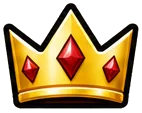
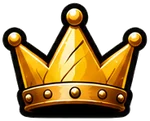
Habillage Bois (planche de Loubi) à la place de Casino, marques dessinées incluses (lf-341)
Claude-Session: https://claude.ai/code/session_01Agff8va3qxXu2Vw43sb54j

diff --git a/index.html b/index.html
@@ -3560,7 +3560,7 @@ html body #hist #hBody .h2big em{grid-column:1/-1;text-align:center;font:400 12p
 html body #hist #hBody .h2last{grid-column:1/-1;display:flex;gap:6px;justify-content:center;align-items:center}
 html body #hist #hBody .h2last i{width:14px;height:14px;border-radius:50%;background:var(--pc)}
 html body #hist #hBody .h2last small{font:400 11px "Lbl",sans-serif;color:var(--mute);margin-left:6px}
-/* ===== habillage « Casino » (Cricket 1 contre 1) : images dessinées par Loubi, découpées depuis sa planche ; « Base » = rendu normal ===== */
+/* ===== habillage « Bois » (Cricket 1 contre 1 ; clé interne « casino ») : images dessinées par Loubi, découpées depuis sa planche ; « Base » = rendu normal ===== */
 html body.skin-casino #game#game#game#game.p2 .sc.act{background:transparent!important;box-shadow:none!important}
 html body.skin-casino #game#game#game#game.p2 .sc.act::after{opacity:0!important}
 html body.skin-casino #game#game#game#game.p2 .sc.act::before{content:'';position:absolute;inset:-5px;background:url(skins/casino/carte.webp) 0 0/100% 100% no-repeat;z-index:-1;pointer-events:none}
@@ -3574,7 +3574,7 @@ html body.skin-casino #game#game#game#game.p2 .sc:not(.act) .pill:not(.undo){bac
 html body.skin-casino #game#game#game#game.p2 .sc:not(.act) .pill.d{background-image:url(skins/casino/pa_d.webp)!important}
 html body.skin-casino #game#game#game#game.p2 .sc:not(.act) .pill.t{background-image:url(skins/casino/pa_t.webp)!important}
 html body.skin-casino #game#game#game#game.p2 .sc:not(.act) .pill.e,html body.skin-casino #game#game#game#game.p2 .sc:not(.act) .pill.z{background-image:url(skins/casino/pa_z.webp)!important}
-html body.skin-casino #game#game#game#game.p2 .rtrackb{border-color:transparent!important;background:url(skins/casino/rail.webp) 0 0/100% 100% no-repeat!important;z-index:1!important}
+html body.skin-casino #game#game#game#game.p2 .rtrackb{border-color:transparent!important;background:url(skins/casino/rail.webp) 0 0/100% 100% no-repeat!important;z-index:0!important}
 html body.skin-casino #game#game#game#game.p2 #grid .num{background:transparent!important;box-shadow:none!important}
 html body.skin-casino #game#game#game#game.p2 #grid .num::before{content:'';position:absolute;inset:0;background:url(skins/casino/num.webp) 0 0/100% 100% no-repeat;z-index:-1;pointer-events:none}
 html body.skin-casino #game#game#game#game.p2 #grid .num.dead::before{background-image:url(skins/casino/num_mort.webp)}
@@ -3583,8 +3583,11 @@ html body.skin-casino #game#game#game#game.p2 .fthumb{background:transparent!imp
 html body.skin-casino #game#game#game#game.p2 .fthumb::before{content:'';position:absolute;inset:-4.8px;background:url(skins/casino/curseur.webp) 0 0/100% 100% no-repeat;pointer-events:none}
 html body.skin-casino #game#game#game#game.p2 .mw{position:relative;isolation:isolate}
 html body.skin-casino #game#game#game#game.p2 .mw .disc{opacity:0!important}
-html body.skin-casino #game#game#game#game.p2 .mw.k3::before{content:'';position:absolute;left:23%;top:23%;width:54%;height:54%;background:url(skins/casino/disque.webp) center/contain no-repeat;z-index:-1;animation:skpop .28s cubic-bezier(.3,1.6,.5,1)}
+html body.skin-casino #game#game#game#game.p2 .mw.k3::before{content:'';position:absolute;left:21%;top:21%;width:58%;height:58%;background:url(skins/casino/disque.webp) center/contain no-repeat;z-index:-1;animation:skpop .28s cubic-bezier(.3,1.6,.5,1)}
 @keyframes skpop{from{transform:scale(.2)}}
+html body.skin-casino #game#game#game#game.p2 .mw svg path{opacity:0!important}
+html body.skin-casino #game#game#game#game.p2 .mw.k1::after,html body.skin-casino #game#game#game#game.p2 .mw.k2::after,html body.skin-casino #game#game#game#game.p2 .mw.k3::after{content:'';position:absolute;left:20%;top:20%;width:60%;height:60%;background:url(skins/casino/trait1.webp) center/contain no-repeat;pointer-events:none;animation:skpop .22s ease-out}
+html body.skin-casino #game#game#game#game.p2 .mw.k2::after,html body.skin-casino #game#game#game#game.p2 .mw.k3::after{background:url(skins/casino/trait1.webp) center/contain no-repeat,url(skins/casino/trait2.webp) center/contain no-repeat}
 html body.skin-casino #game#game#game#game.p2 svg.hat path{opacity:0!important}
 html body.skin-casino #game#game#game#game.p2 svg.hat{background:url(skins/casino/couronne.webp) center/contain no-repeat;overflow:visible}
 html body.skin-casino #game#game#game#game.p2 #fMenu svg *,html body.skin-casino #game#game#game#game.p2 #fUndo svg *{opacity:0!important}
@@ -7095,13 +7098,13 @@ $('grid').addEventListener('click',e=>{if(!BARC)return;e.stopImmediatePropagatio
 /* ===== thème : 3 réglages de couleur (fond, contours et textes, bulles) ===== */
 /* thème unique (Bulle d'origine) : on efface les anciens réglages de couleurs et de style */
 if(S.th||S.style||S.pfT||S.pfN||S.pst){['th','style','pfT','pfN','pst'].forEach(k=>delete S[k]);try{store.set(K_S,S)}catch(e){}}
-const APPV='lf-340';   // à changer avec VERSION dans sw.js
+const APPV='lf-341';   // à changer avec VERSION dans sw.js
 ['--m-bg','--m-card','--m-line','--m-strongtx','--btx','--accent','--acc-rgb','--m-home','--ui-bg','--page','--m-cell','--ink','--m-ink','--m-strong','--mute','--m-sub'].forEach(k=>document.documentElement.style.removeProperty(k));
 try{colApply()}catch(e){}   // couleurs choisies : rétablies à chaque ouverture
 $('skinT').addEventListener('click',e=>{e.stopPropagation();haptic();SFX.ui();
   const old=$('xpick');if(old)old.remove();
   const p=el('div','');p.id='xpick';p.classList.add('skinpick');document.body.append(p);
-  const draw=()=>{p.innerHTML=`<div class="skn"><button class="skgo" data-go="hStats">Statistiques</button><button class="skgo" data-go="hHist">Historique</button><button class="skprof">Joueurs</button></div><div class="skp"><span>Son</span><div class="sksw sksnd3"><button data-s="0" class="${S.sound?'':'on'}">Non</button><button data-s="1" class="${S.sound&&S.voice===false?'on':''}">Effets</button><button data-s="2" class="${S.sound&&S.voice!==false?'on':''}">+ Voix</button></div></div><div class="skp"><span>Habillage</span><div class="sksw sksk"><button data-k="" class="${S.skin==='casino'?'':'on'}">Base</button><button data-k="casino" class="${S.skin==='casino'?'on':''}">Casino</button></div></div><div class="skp"><span>Couleurs des joueurs</span><div class="sksw"><button data-p="1" class="${S.pcolOff?'':'on'}">Oui</button><button data-p="0" class="${S.pcolOff?'on':''}">Non</button></div></div>`+colMenu()+`<button class="skadv">Avancé <i>${SKADV?'▴':'▾'}</i></button>${SKADV?`<div class="skp skjeux"><span>Mise en page des jeux</span></div><div class="skdemo"><button data-d="ck2">Cricket 1v1</button><button data-d="ck3">Cricket 3</button><button data-d="ck4">Cricket 4</button><button data-d="ck5">Cricket 5+</button><button data-d="x2">501 1v1</button><button data-d="xn">501 3+</button><button data-d="kl">Killer 6</button><button data-d="kl7">Killer 7+</button><button data-d="clk">Horloge</button></div><div class="skp skjeux"><span>Affichage des tableaux</span></div><div class="skdemo skdisp"><button data-ds="st">Statistiques</button><button data-ds="hl">Historique</button><button data-ds="hg">Fiche de partie</button></div><button class="skdanger">Effacer des données…</button>`:''}<div class="skv">version ${APPV}</div>`;if(p.style.top)p.style.top=Math.max(12,Math.min(parseFloat(p.style.top),innerHeight-p.offsetHeight-12))+'px'};
+  const draw=()=>{p.innerHTML=`<div class="skn"><button class="skgo" data-go="hStats">Statistiques</button><button class="skgo" data-go="hHist">Historique</button><button class="skprof">Joueurs</button></div><div class="skp"><span>Son</span><div class="sksw sksnd3"><button data-s="0" class="${S.sound?'':'on'}">Non</button><button data-s="1" class="${S.sound&&S.voice===false?'on':''}">Effets</button><button data-s="2" class="${S.sound&&S.voice!==false?'on':''}">+ Voix</button></div></div><div class="skp"><span>Habillage</span><div class="sksw sksk"><button data-k="" class="${S.skin==='casino'?'':'on'}">Base</button><button data-k="casino" class="${S.skin==='casino'?'on':''}">Bois</button></div></div><div class="skp"><span>Couleurs des joueurs</span><div class="sksw"><button data-p="1" class="${S.pcolOff?'':'on'}">Oui</button><button data-p="0" class="${S.pcolOff?'on':''}">Non</button></div></div>`+colMenu()+`<button class="skadv">Avancé <i>${SKADV?'▴':'▾'}</i></button>${SKADV?`<div class="skp skjeux"><span>Mise en page des jeux</span></div><div class="skdemo"><button data-d="ck2">Cricket 1v1</button><button data-d="ck3">Cricket 3</button><button data-d="ck4">Cricket 4</button><button data-d="ck5">Cricket 5+</button><button data-d="x2">501 1v1</button><button data-d="xn">501 3+</button><button data-d="kl">Killer 6</button><button data-d="kl7">Killer 7+</button><button data-d="clk">Horloge</button></div><div class="skp skjeux"><span>Affichage des tableaux</span></div><div class="skdemo skdisp"><button data-ds="st">Statistiques</button><button data-ds="hl">Historique</button><button data-ds="hg">Fiche de partie</button></div><button class="skdanger">Effacer des données…</button>`:''}<div class="skv">version ${APPV}</div>`;if(p.style.top)p.style.top=Math.max(12,Math.min(parseFloat(p.style.top),innerHeight-p.offsetHeight-12))+'px'};
   const colMenu=()=>{const C=colGet(),dot=v=>`<i style="background:${v}"></i>`;return `<button class="crow cmain"><span>Apparence de l'appli</span><b>${dot(colAcc())}${dot(C.ol==='acc'?colAcc():C.ol)}${dot(C.bg)}</b></button>`};
   draw();p.style.left=Math.max(12,(innerWidth-p.offsetWidth)/2)+'px';p.style.top=Math.max(12,Math.min(innerHeight-p.offsetHeight-12,e.currentTarget.getBoundingClientRect().bottom+10))+'px';
   p.addEventListener('click',ev=>{ev.stopPropagation();const go=ev.target.closest('.skgo');if(go){p.remove();$(go.dataset.go).dispatchEvent(new MouseEvent('click',{bubbles:true}));return}

diff --git a/sw.js b/sw.js
@@ -1,8 +1,8 @@
 /* Loubard Fléchard — hors ligne + mises à jour automatiques.
    Page : réseau d'abord (version la plus récente), cache si pas de réseau.
    Change VERSION à chaque mise à jour publiée. */
-const VERSION='lf-340';
-const FILES=['./','index.html','sync.js','scenes.js','manifest.json','art/lexend.woff','art/ui-300.woff','art/ui-600.woff','art/ui-750.woff','art/ui-900.woff','art/fun.woff','art/funl.woff','art/funtxt.woff','art/lbl.woff','icon-180.png','icon-192.png','icon-512.png','skins/casino/accueil.webp','skins/casino/annuler.webp','skins/casino/barre.webp','skins/casino/carte.webp','skins/casino/couronne.webp','skins/casino/curseur.webp','skins/casino/disque.webp','skins/casino/num.webp','skins/casino/num_mort.webp','skins/casino/p_d.webp','skins/casino/p_e.webp','skins/casino/p_s.webp','skins/casino/p_t.webp','skins/casino/p_z.webp','skins/casino/pa.webp','skins/casino/pa_d.webp','skins/casino/pa_t.webp','skins/casino/pa_z.webp','skins/casino/rail.webp'];
+const VERSION='lf-341';
+const FILES=['./','index.html','sync.js','scenes.js','manifest.json','art/lexend.woff','art/ui-300.woff','art/ui-600.woff','art/ui-750.woff','art/ui-900.woff','art/fun.woff','art/funl.woff','art/funtxt.woff','art/lbl.woff','icon-180.png','icon-192.png','icon-512.png','skins/casino/accueil.webp','skins/casino/annuler.webp','skins/casino/barre.webp','skins/casino/carte.webp','skins/casino/couronne.webp','skins/casino/curseur.webp','skins/casino/disque.webp','skins/casino/num.webp','skins/casino/num_mort.webp','skins/casino/p_d.webp','skins/casino/p_e.webp','skins/casino/p_s.webp','skins/casino/p_t.webp','skins/casino/p_z.webp','skins/casino/pa.webp','skins/casino/pa_d.webp','skins/casino/pa_t.webp','skins/casino/pa_z.webp','skins/casino/rail.webp','skins/casino/trait1.webp','skins/casino/trait2.webp'];
 self.addEventListener('install',e=>{e.waitUntil(caches.open(VERSION)
   .then(c=>Promise.all(FILES.map(f=>fetch(f,{cache:'reload'}).then(r=>r.ok&&c.put(f,r)).catch(()=>{}))))
   .then(()=>self.skipWaiting()))});
